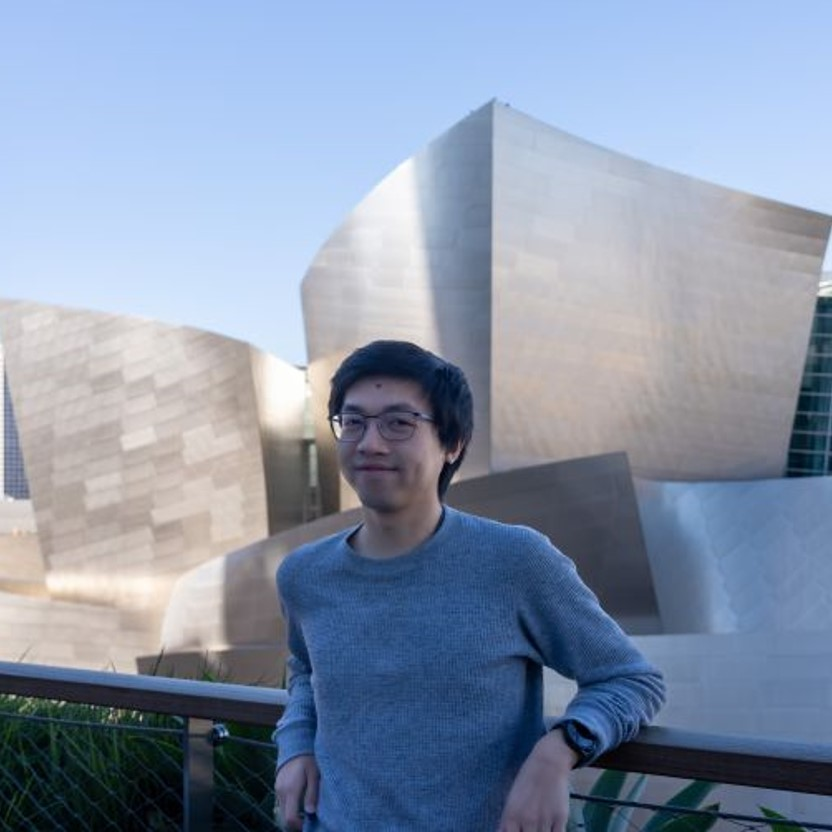
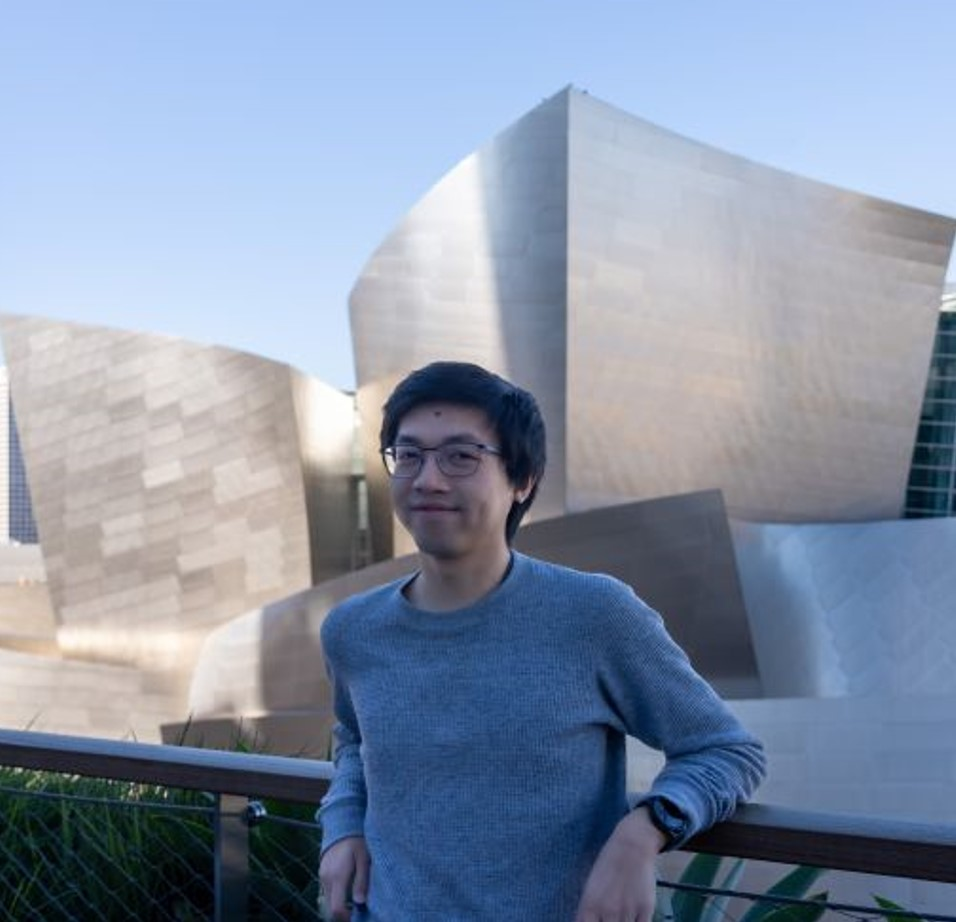
Adjust image size; Correct publications

diff --git a/publications.html b/publications.html
@@ -926,18 +926,18 @@ add_paper("Can temporal information help with contrastive self-supervised learni
             "https://arxiv.org/abs/1912.03383"
         )
 
-        add_paper("UPC: Learning Universal Physical Camouflage Attacks on Object Detectors",
-            "Lifeng Huang, Chengying Gao, Yuyin Zhou, Cihang Xie, Alan Yuille , Changqing Zou",
-            "CVPR, 2020",
-            "https://arxiv.org/abs/1909.04326",
-            "@inproceedings{huang2020universal,<br>" +
-             "&nbsp;&nbsp;&nbsp;title={Universal physical camouflage attacks on object detectors},<br>" +
-             "&nbsp;&nbsp;&nbsp;author={Huang, Lifeng and Gao, Chengying and Zhou, Yuyin and Xie, Cihang and Yuille, Alan L and Zou, Changqing and Liu, Ning},<br>" +
-             "&nbsp;&nbsp;&nbsp;booktitle={CVPR},<br>" +
-             "&nbsp;&nbsp;&nbsp;year={2020}<br>}",
-            "In this paper, we study physical adversarial attacks on object detectors in the wild. Previous works mostly craft instance-dependent perturbations only for rigid or planar objects. To this end, we propose to learn an adversarial pattern to effectively attack all instances belonging to the same object category, referred to as Universal Physical Camouflage Attack (UPC). Concretely, UPC crafts camouflage by jointly fooling the region proposal network, as well as misleading the classifier and the regressor to output errors. In order to make UPC effective for non-rigid or non-planar objects, we introduce a set of transformations for mimicking deformable properties. We additionally impose optimization constraint to make generated patterns look natural to human observers. To fairly evaluate the effectiveness of different physical-world attacks, we present the first standardized virtual database, AttackScenes, which simulates the real 3D world in a controllable and reproducible environment. Extensive experiments suggest the superiority of our proposed UPC compared with existing physical adversarial attackers not only in virtual environments (AttackScenes), but also in real-world physical environments.",
-            "https://arxiv.org/abs/1909.04326"
-        )
+        // add_paper("UPC: Learning Universal Physical Camouflage Attacks on Object Detectors",
+        //     "Lifeng Huang, Chengying Gao, Yuyin Zhou, Cihang Xie, Alan Yuille , Changqing Zou",
+        //     "CVPR, 2020",
+        //     "https://arxiv.org/abs/1909.04326",
+        //     "@inproceedings{huang2020universal,<br>" +
+        //      "&nbsp;&nbsp;&nbsp;title={Universal physical camouflage attacks on object detectors},<br>" +
+        //      "&nbsp;&nbsp;&nbsp;author={Huang, Lifeng and Gao, Chengying and Zhou, Yuyin and Xie, Cihang and Yuille, Alan L and Zou, Changqing and Liu, Ning},<br>" +
+        //      "&nbsp;&nbsp;&nbsp;booktitle={CVPR},<br>" +
+        //      "&nbsp;&nbsp;&nbsp;year={2020}<br>}",
+        //     "In this paper, we study physical adversarial attacks on object detectors in the wild. Previous works mostly craft instance-dependent perturbations only for rigid or planar objects. To this end, we propose to learn an adversarial pattern to effectively attack all instances belonging to the same object category, referred to as Universal Physical Camouflage Attack (UPC). Concretely, UPC crafts camouflage by jointly fooling the region proposal network, as well as misleading the classifier and the regressor to output errors. In order to make UPC effective for non-rigid or non-planar objects, we introduce a set of transformations for mimicking deformable properties. We additionally impose optimization constraint to make generated patterns look natural to human observers. To fairly evaluate the effectiveness of different physical-world attacks, we present the first standardized virtual database, AttackScenes, which simulates the real 3D world in a controllable and reproducible environment. Extensive experiments suggest the superiority of our proposed UPC compared with existing physical adversarial attackers not only in virtual environments (AttackScenes), but also in real-world physical environments.",
+        //     "https://arxiv.org/abs/1909.04326"
+        // )
 
         add_paper("A multiscale deep learning method for quantitative visualization of traumatic hemoperitoneum at CT: assessment of feasibility and comparison with subjective categorical estimation",
             "David Dreizin, Yuyin Zhou, Shuhao Fu, Yan Wang, Guang Li, Kathryn Champ, Eliot Siegel, Ze Wang, Tina Chen, Alan L Yuille",
@@ -1032,18 +1032,6 @@ add_paper("Can temporal information help with contrastive self-supervised learni
         )
 
 
-        add_paper("Neural Architecture Search for Lightweight Non-Local Networks",
-            "Yingwei Li, Xiaojie Jin, Jieru Mei, Xiaochen Lian, Linjie Yang, Cihang Xie, Qihang Yu, Yuyin Zhou, Song Bai, Alan Yuille",
-            "CVPR, 2020",
-            "https://arxiv.org/abs/2004.01961",
-            "@inproceedings{li2020neural,<br>" +
-             "&nbsp;&nbsp;&nbsp;title={Neural architecture search for lightweight non-local networks},<br>" +
-             "&nbsp;&nbsp;&nbsp;author={Li, Yingwei and Jin, Xiaojie and Mei, Jieru and Lian, Xiaochen and Yang, Linjie and Xie, Cihang and Yu, Qihang and Zhou, Yuyin and Bai, Song and Yuille, Alan L},<br>" +
-             "&nbsp;&nbsp;&nbsp;booktitle={CVPR},<br>" +
-             "&nbsp;&nbsp;&nbsp;year={2020}<br>}",
-            "Non-Local (NL) blocks have been widely studied in various vision tasks. However, it has been rarely explored to embed the NL blocks in mobile neural networks, mainly due to the following challenges: 1) NL blocks generally have heavy computation cost which makes it difficult to be applied in applications where computational resources are limited, and 2) it is an open problem to discover an optimal configuration to embed NL blocks into mobile neural networks. We propose AutoNL to overcome the above two obstacles. Firstly, we propose a Lightweight Non-Local (LightNL) block by squeezing the transformation operations and incorporating compact features. With the novel design choices, the proposed LightNL block is 400 times computationally cheaper than its conventional counterpart without sacrificing the performance. Secondly, by relaxing the structure of the LightNL block to be differentiable during training, we propose an efficient neural architecture search algorithm to learn an optimal configuration of LightNL blocks in an end-to-end manner. Notably, using only 32 GPU hours, the searched AutoNL model achieves 77.7% top-1 accuracy on ImageNet under a typical mobile setting (350M FLOPs), significantly outperforming previous mobile models including MobileNetV2 (+5.7%), FBNet (+2.8%) and MnasNet (+2.1%). Code and models are available at https://github.com/LiYingwei/AutoNL.",
-            "https://arxiv.org/abs/2004.01961"
-        )
 
         add_paper("Recurrent Saliency Transformation Network for Tiny Target Segmentation in Abdominal CT Scans",
             "Lingxi Xie, Qihang Yu, Yuyin Zhou, Yan Wang, Elliot Fishman, Alan Yuille",

diff --git a/people.html b/people.html
@@ -142,7 +142,7 @@
 
           <div class="col-lg-6 mt-4 mt-lg-0">
             <div class="member d-flex align-items-start">
-              <a href="https://zichaoli.github.io/"><div class="pic"><img src="assets/img/doctors/zichao.jpeg" class="img-fluid" alt=""></div></a>
+              <a href="https://zichaoli.github.io/"><div class="pic"><img src="assets/img/doctors/zichao.jpg" class="img-fluid" alt=""></div></a>
               <div class="member-info">
                 <a href="https://zichaoli.github.io/"><h4>Zichao Li</h4></a>
                 <span>Ph.D. student</span>
@@ -269,7 +269,7 @@
 
          <div class="col-lg-6 mt-4 mt-lg-0">
             <div class="member d-flex align-items-start">
-              <a href="https://weichen582.github.io/"><div class="pic"><img src="assets/img/doctors/chen_wei.png" class="img-fluid" alt=""></div></a>
+              <a href="https://weichen582.github.io/"><div class="pic"><img src="assets/img/doctors/chenwei.jpg" class="img-fluid" alt=""></div></a>
               <div class="member-info">
                 <a href="https://weichen582.github.io/"><h4>Chen Wei</h4></a>
                 <span>Affiliated Ph.D. student<br>Johns Hopkins University</span>
